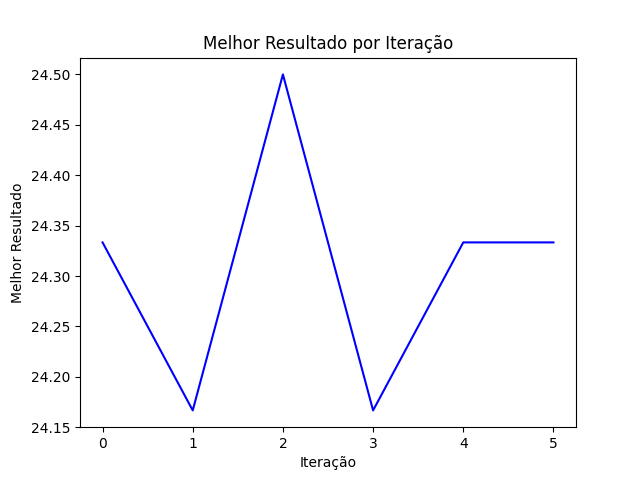
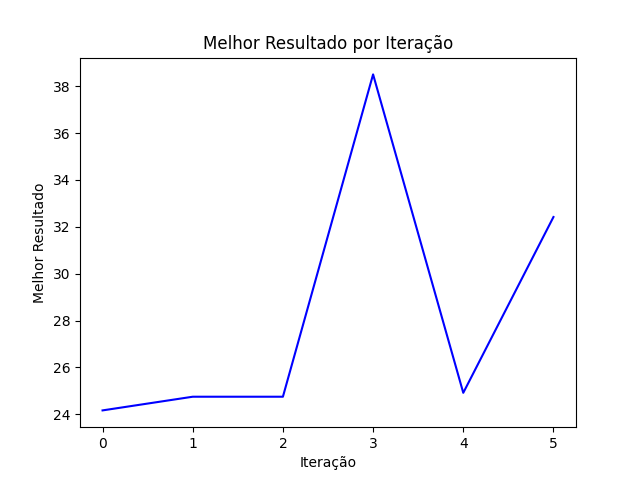
Agora vou deixar treinando na fé

diff --git a/Dino/dinoAIParallel.py b/Dino/dinoAIParallel.py
@@ -941,8 +941,8 @@ def main():
 
     # plt.ion()  # Habilita o modo interativo do grafico
 
-    teste = geneticAlgorithm(100, 5)
-    atualizar_grafico(5, melhor_resultado, linhas, ax)
+    teste = geneticAlgorithm(100, 4000)
+    atualizar_grafico(4000, melhor_resultado, linhas, ax)
     # plt.ioff()  # Desabilita o modo interativo
     # plt.show()  # Exibe o gráfico final
     fig.savefig("melhor_resultado_por_iteracao.png")
